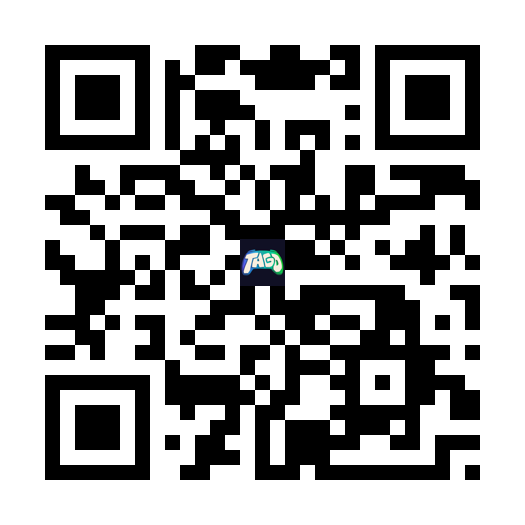
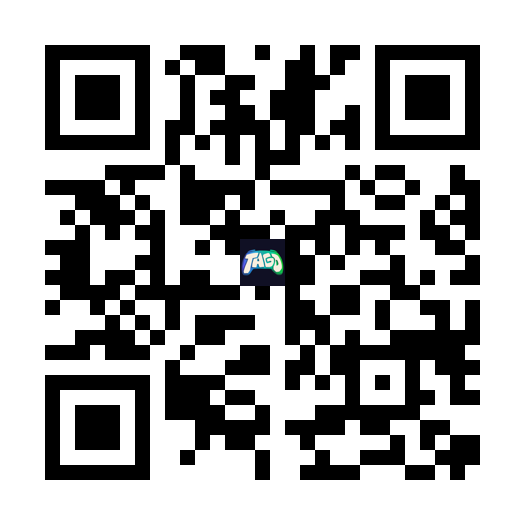
Changed to port 5001

Changed region(s): [[0.061, 0.061, 0.9143, 0.9143], [0.3352, 0.061, 0.3962, 0.1219]]

diff --git a/host.py b/host.py
@@ -31,7 +31,7 @@ def vote():
 def get_votes():
     return jsonify(votes)
 
-def get_local_url(port=5000):
+def get_local_url(port=5001):
     s = socket.socket(socket.AF_INET, socket.SOCK_DGRAM)
     try:
         # This never actually sends packets, it just forces IP selection
@@ -62,4 +62,4 @@ correction = 4                  # 1 has the least correction and 4 has the most
 
 generate_qr_code(url, qr_code_name, box_size, border, light_color, dark_color, image_name, img_size, correction)
 
-app.run(host="0.0.0.0", port=5000, debug=True)
+app.run(host="0.0.0.0", port=5001, debug=True)

diff --git a/main.py b/main.py
@@ -8,7 +8,7 @@ import os
 import sys
 import signal
 
-HOST = "http://127.0.0.1:5000"
+HOST = "http://127.0.0.1:5001"
 REFRESH_SECONDS = 1.0
 
 def calc_gravity(m: float, p1: glm.vec2, p2: glm.vec2) -> glm.vec2:
